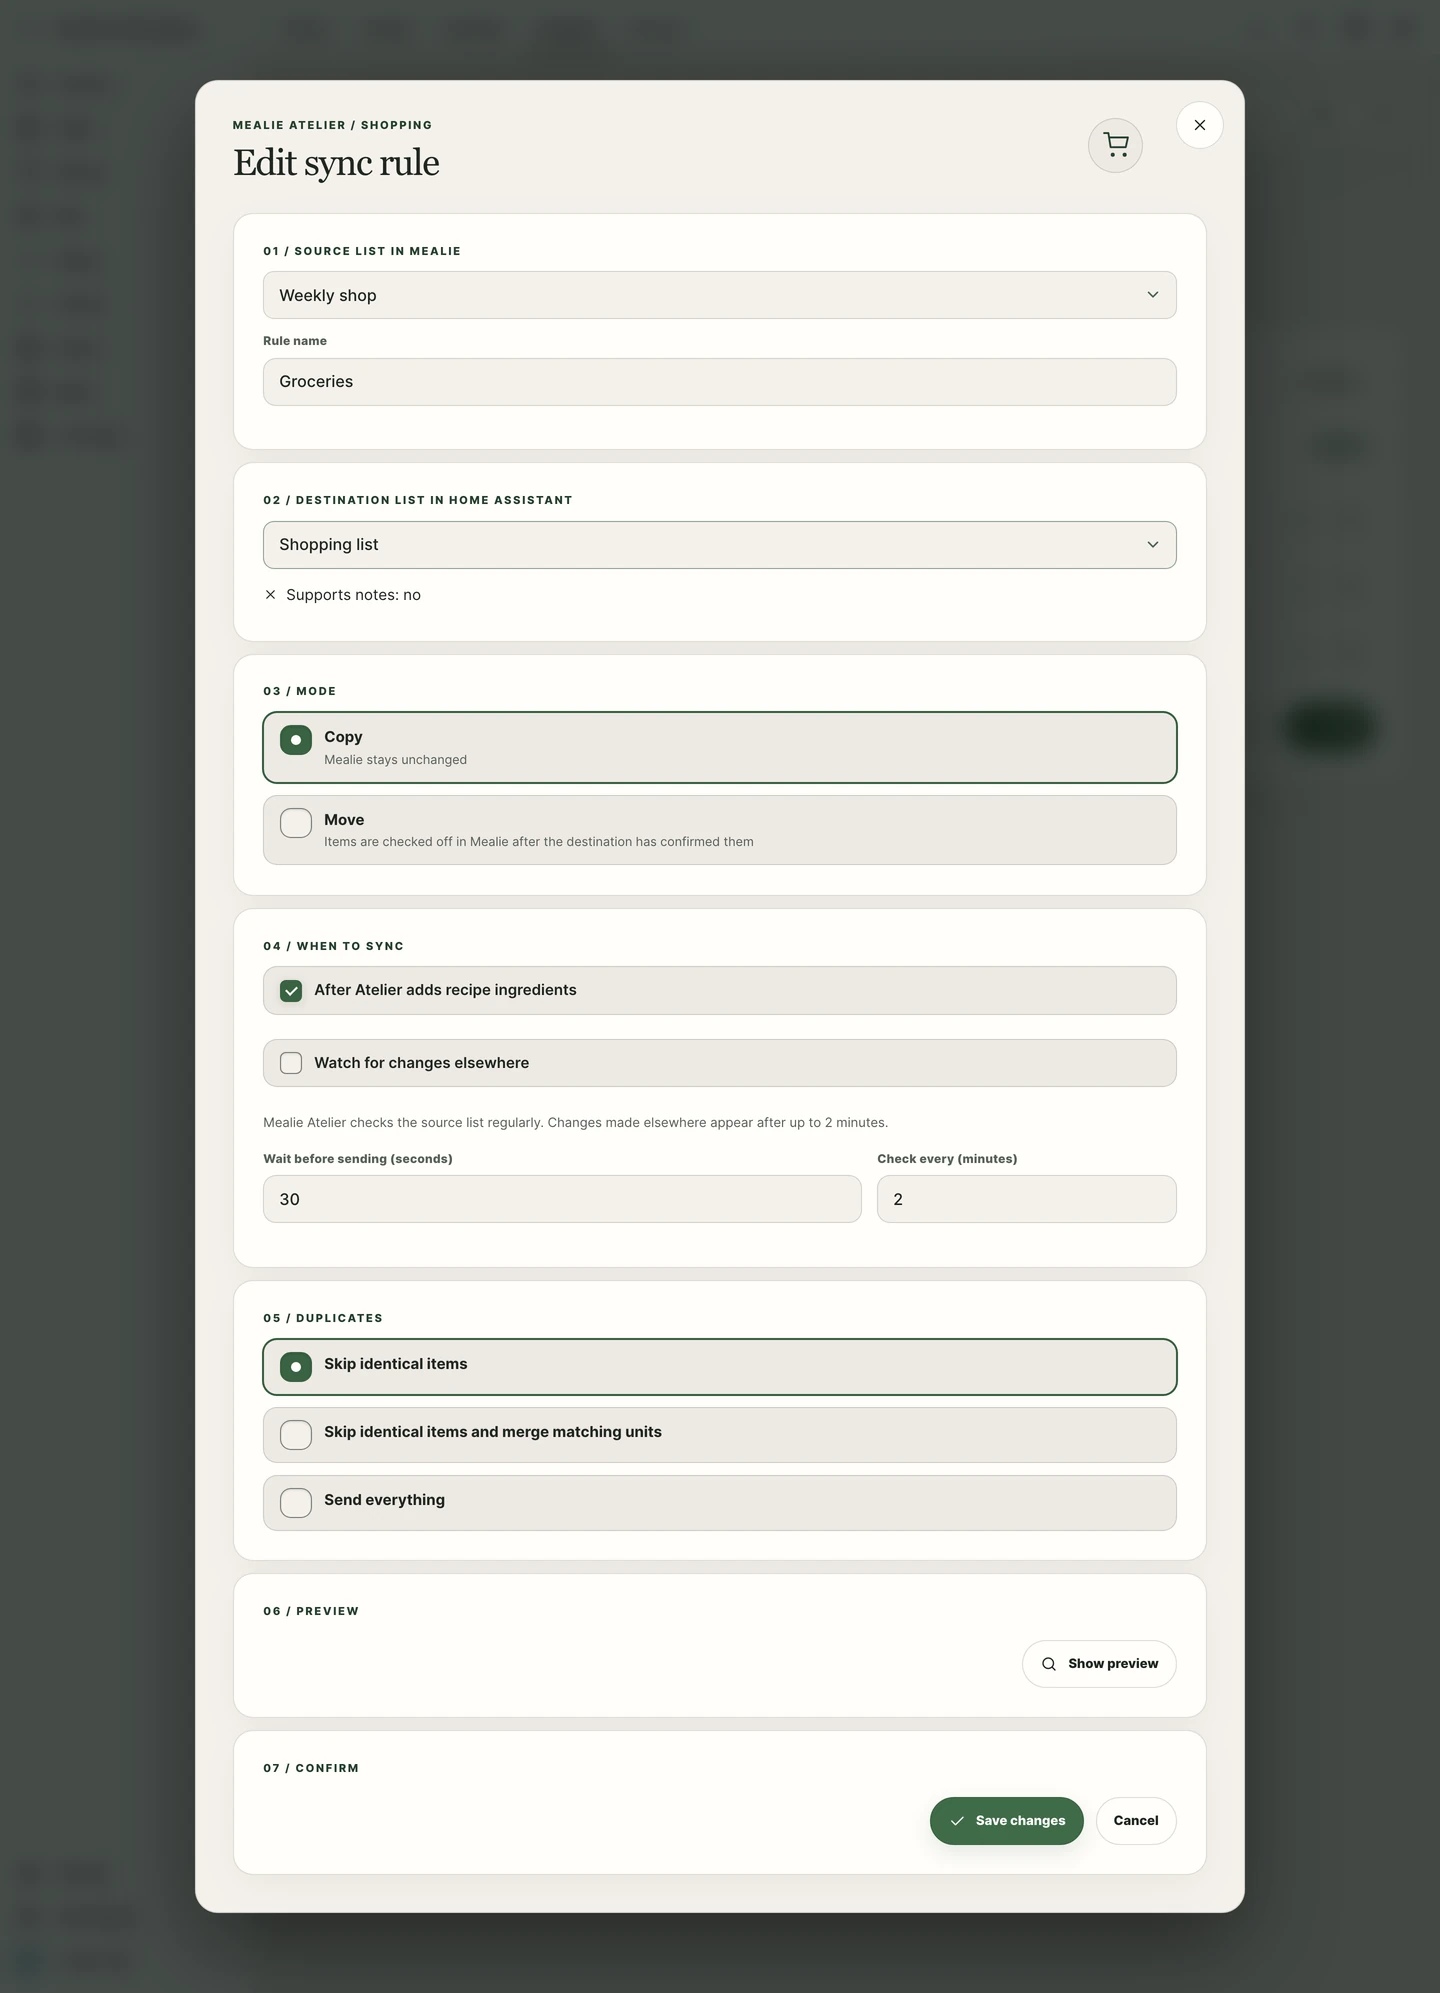
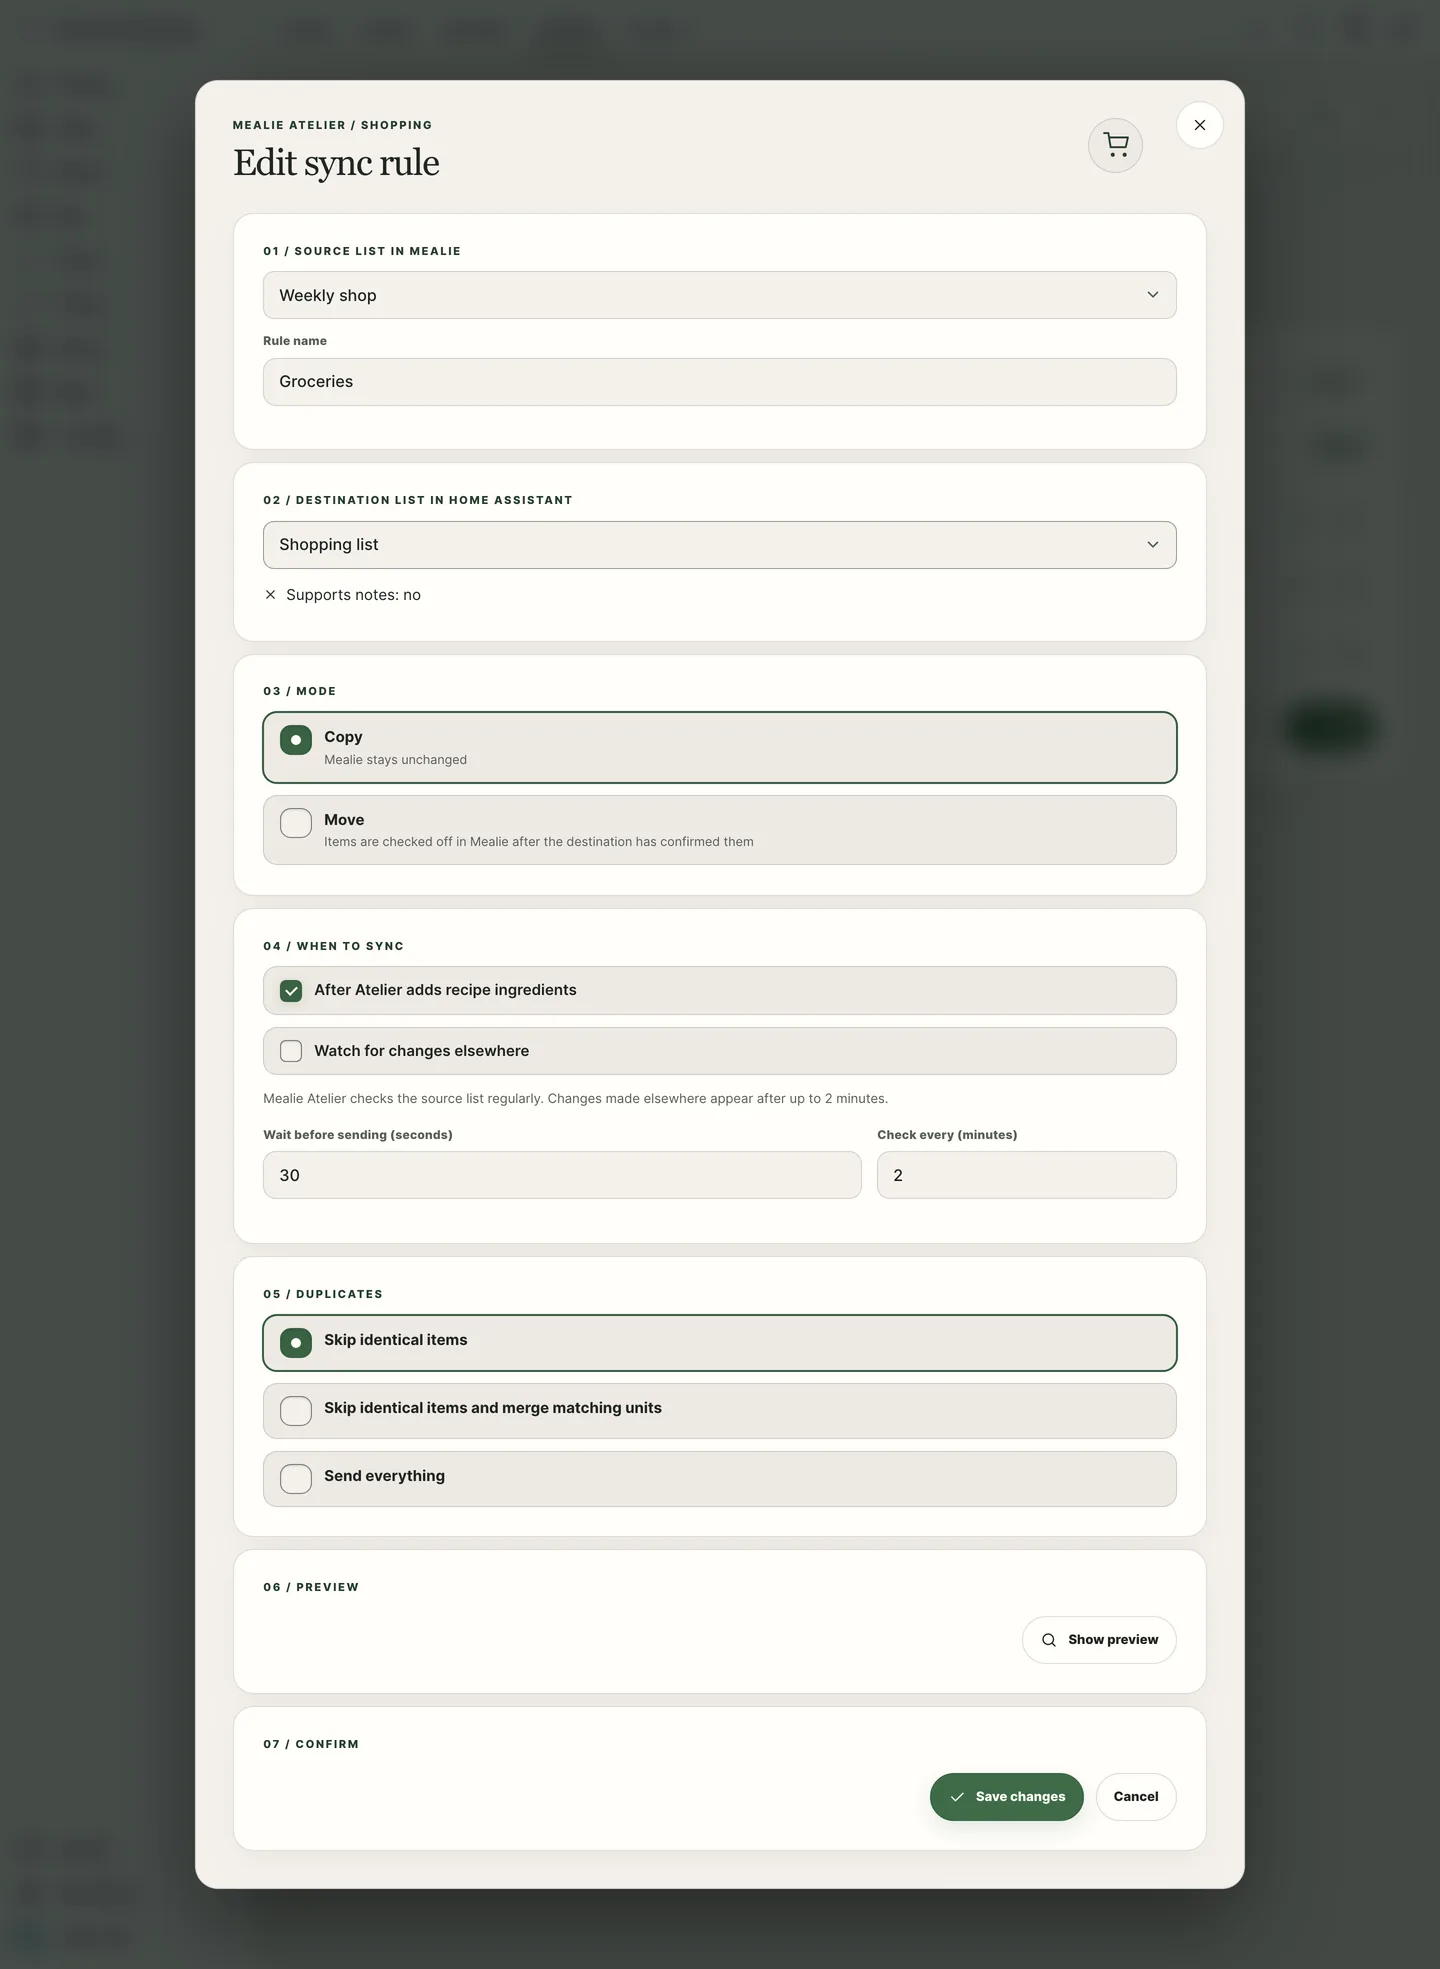
Capture the sync shots from the shipped cards layout and stack them in the README

diff --git a/tests/live/capture_bridge.py b/tests/live/capture_bridge.py
@@ -107,22 +107,6 @@ async def abort_flows() -> None:
             await ws({"type": "config_entries/flow/abort", "flow_id": flow["flow_id"]})
 
 
-# The status dialog stacks the add button directly on the "Recent runs" card without a gap
-# (cards: no margin after .form-actions). Until the cards repo fixes that, the shot adds the gap.
-GAP_STYLE = ".atelier .sync-panel .form-actions + .editor-card { margin-block-start: var(--ds-space-3, 12px); }"
-
-
-def add_gap(page: Page) -> None:
-    page.locator(".sync-panel").first.evaluate(
-        """(el, css) => {
-            const style = document.createElement('style');
-            style.textContent = css;
-            el.getRootNode().appendChild(style);
-        }""",
-        GAP_STYLE,
-    )
-
-
 def drop_focus(page: Page) -> None:
     """Blur the autofocused control (through shadow roots) so no focus ring shows."""
     page.locator(".sync-panel").first.evaluate(
@@ -136,6 +120,8 @@ def drop_focus(page: Page) -> None:
 
 def fit_dialog(page: Page) -> None:
     """Lift the dialog's height cap and size the viewport to it, so nothing is cut off."""
+    # The editor fills in once the destination lists have loaded; measure only the finished dialog.
+    page.get_by_role("button", name=re.compile("Save changes|Änderungen speichern")).wait_for()
     page.locator(".sync-panel").first.evaluate(
         """(el, css) => {
             const style = document.createElement('style');
@@ -218,7 +204,6 @@ def main() -> None:
                 settle(page)
                 page.locator("[data-action='sync-open'] >> visible=true").click()
                 page.locator("[data-action='sync-setup-open'] >> visible=true").first.wait_for()
-                add_gap(page)
                 shoot(page, "bridge-sync-status")
                 page.locator(f"[data-action='sync-setup-open'][data-value='{rule_id}']").click()
                 page.wait_for_load_state("networkidle")

diff --git a/README.md b/README.md
@@ -102,7 +102,9 @@ Re-authentication and **Reconfigure** are available from the integration page. D
 
 Send what you need from a Mealie shopping list to the list your household actually shops with, for example Bring! through its Home Assistant integration. The sync runs in Home Assistant, so it works when no dashboard is open.
 
-<p align="center"><img width="400" alt="Shopping sync rule with its state and actions" src="https://raw.githubusercontent.com/mealie-atelier/mealie-atelier-bridge/main/assets/screens/sync-status.webp"> <img width="400" alt="Sync rule editor with source list, destination list and copy or move mode" src="https://raw.githubusercontent.com/mealie-atelier/mealie-atelier-bridge/main/assets/screens/sync-setup.webp"></p>
+<p align="center"><img width="560" alt="Shopping sync rule with its state and actions" src="https://raw.githubusercontent.com/mealie-atelier/mealie-atelier-bridge/main/assets/screens/sync-status.webp"></p>
+
+<p align="center"><img width="560" alt="Sync rule editor with source list, destination list and copy or move mode" src="https://raw.githubusercontent.com/mealie-atelier/mealie-atelier-bridge/main/assets/screens/sync-setup.webp"></p>
 
 1. Set up the destination through its own integration first, so it appears as a to-do list. The Bridge never asks for Bring! credentials.
 2. As an administrator, open the Atelier shopping view and add a sync rule: Mealie source list, to-do destination, **Copy** or **Move**, when to sync and how to handle duplicates.
